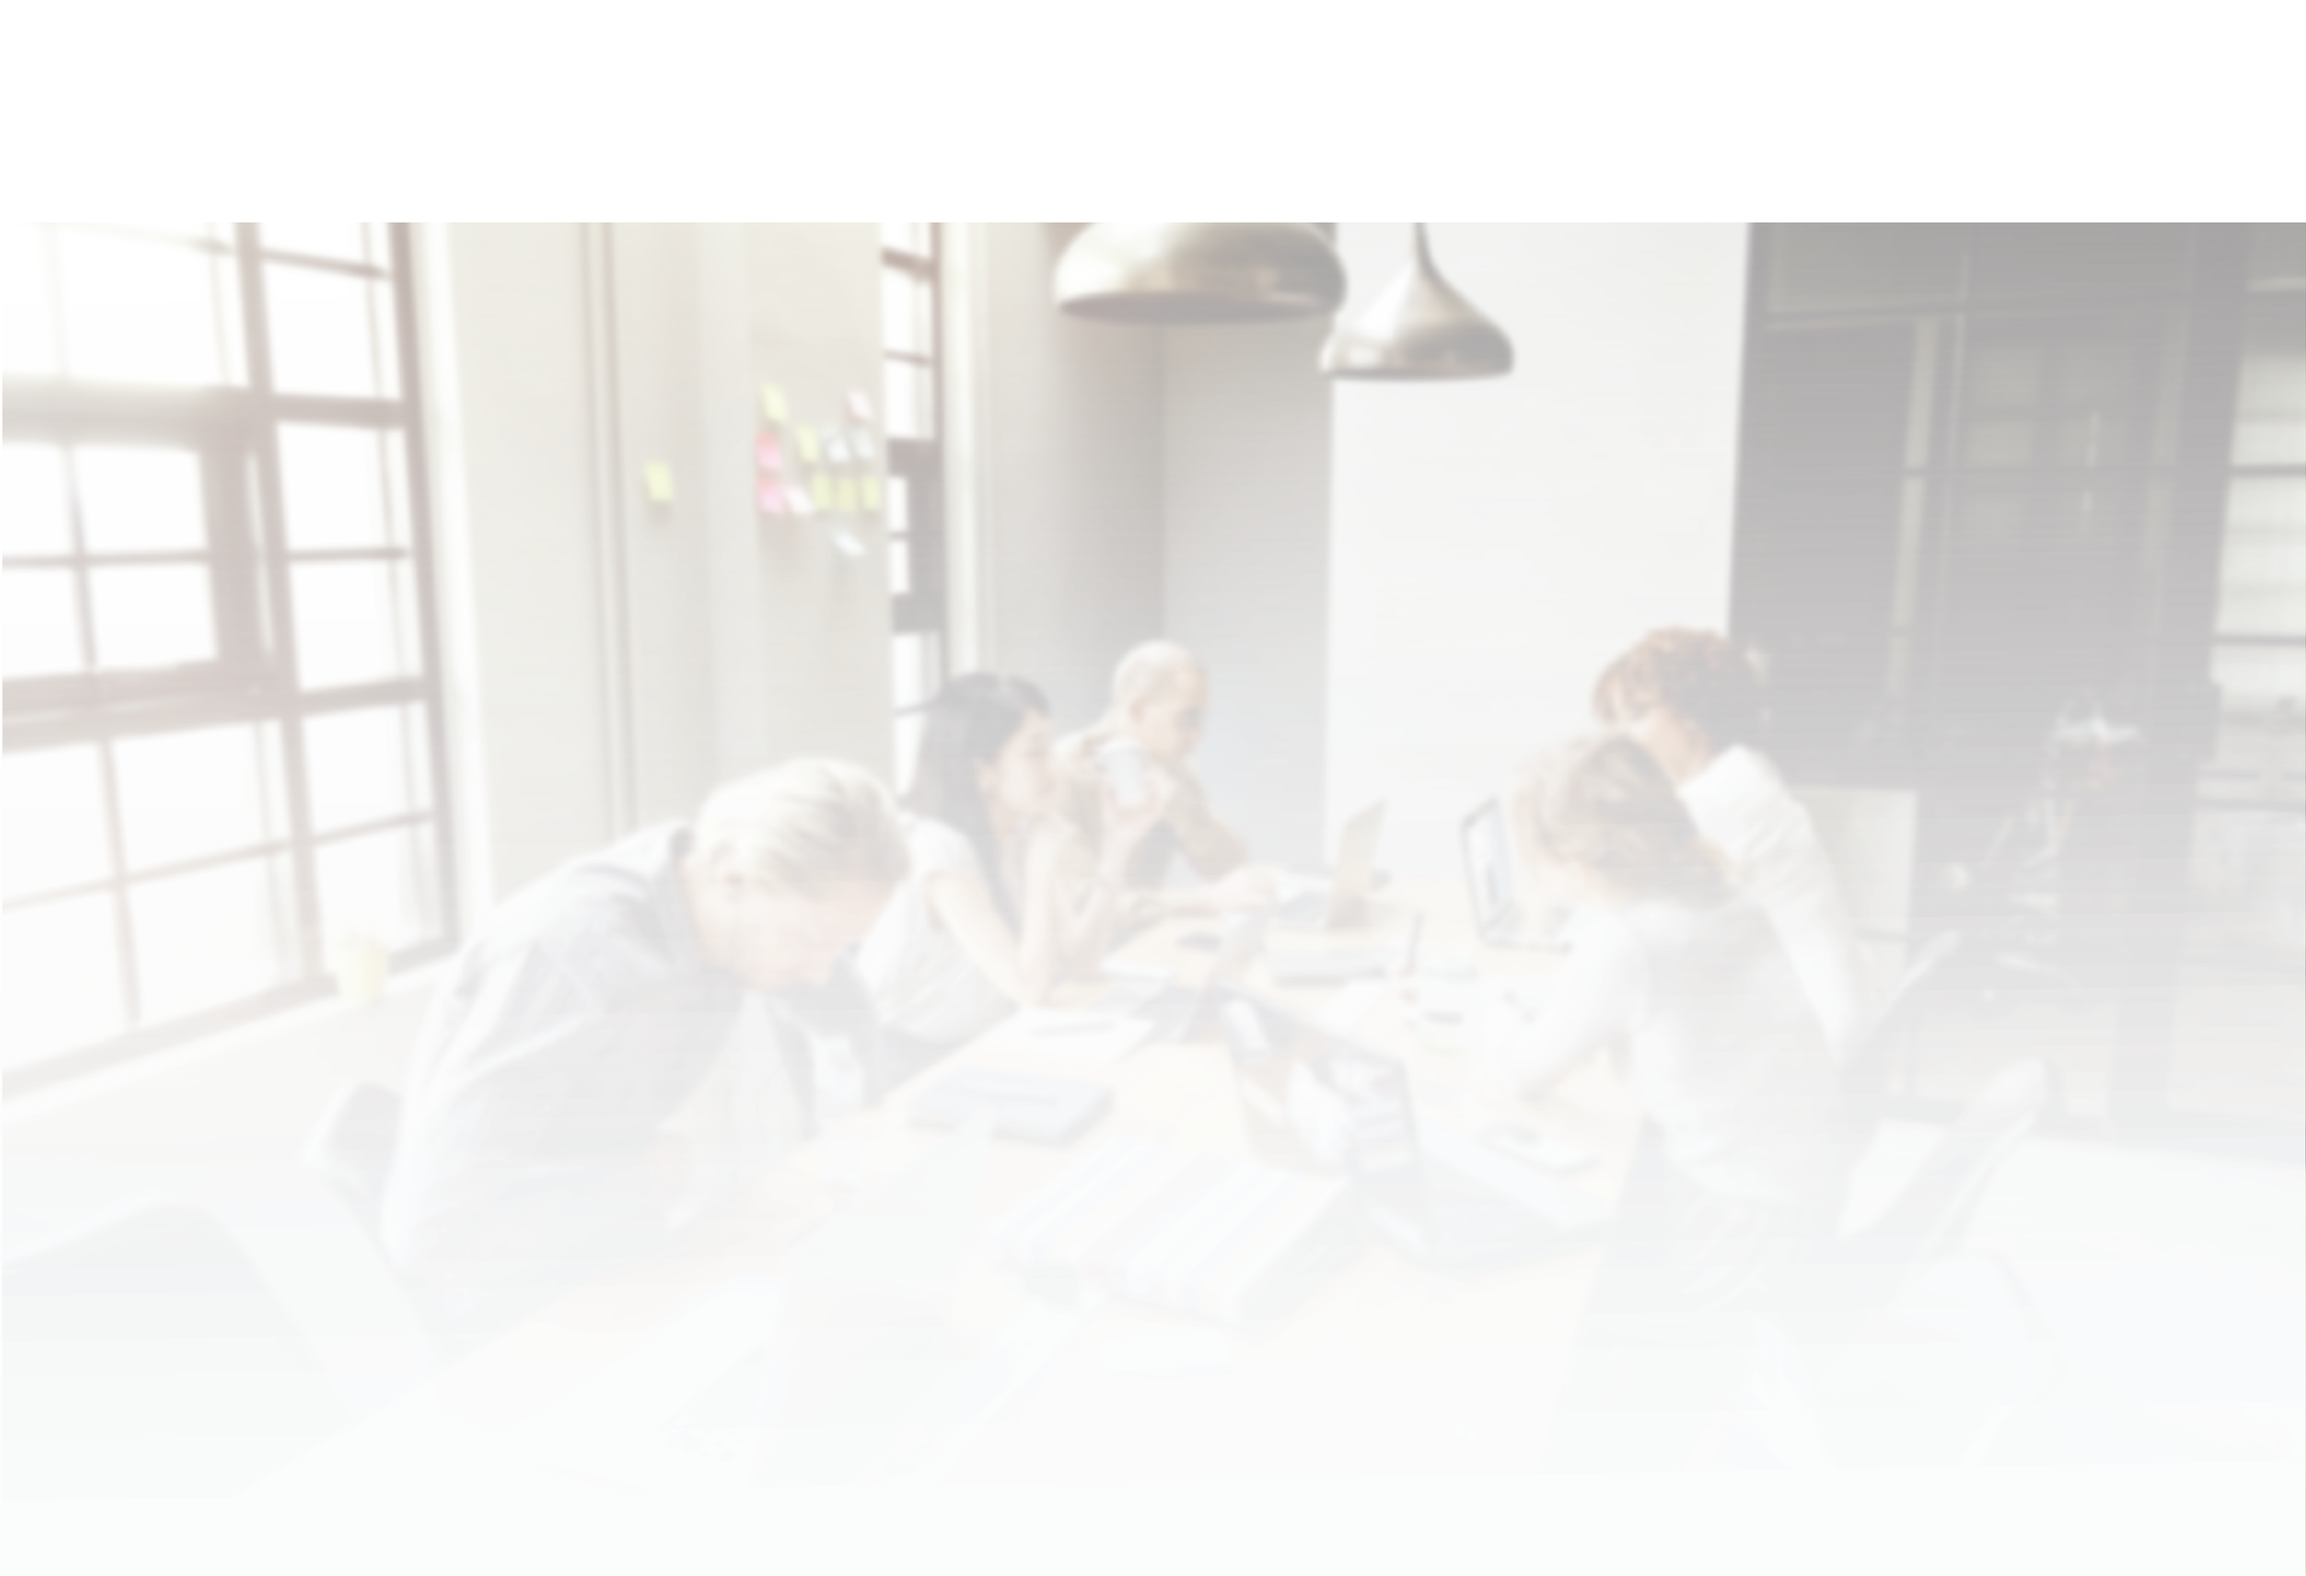
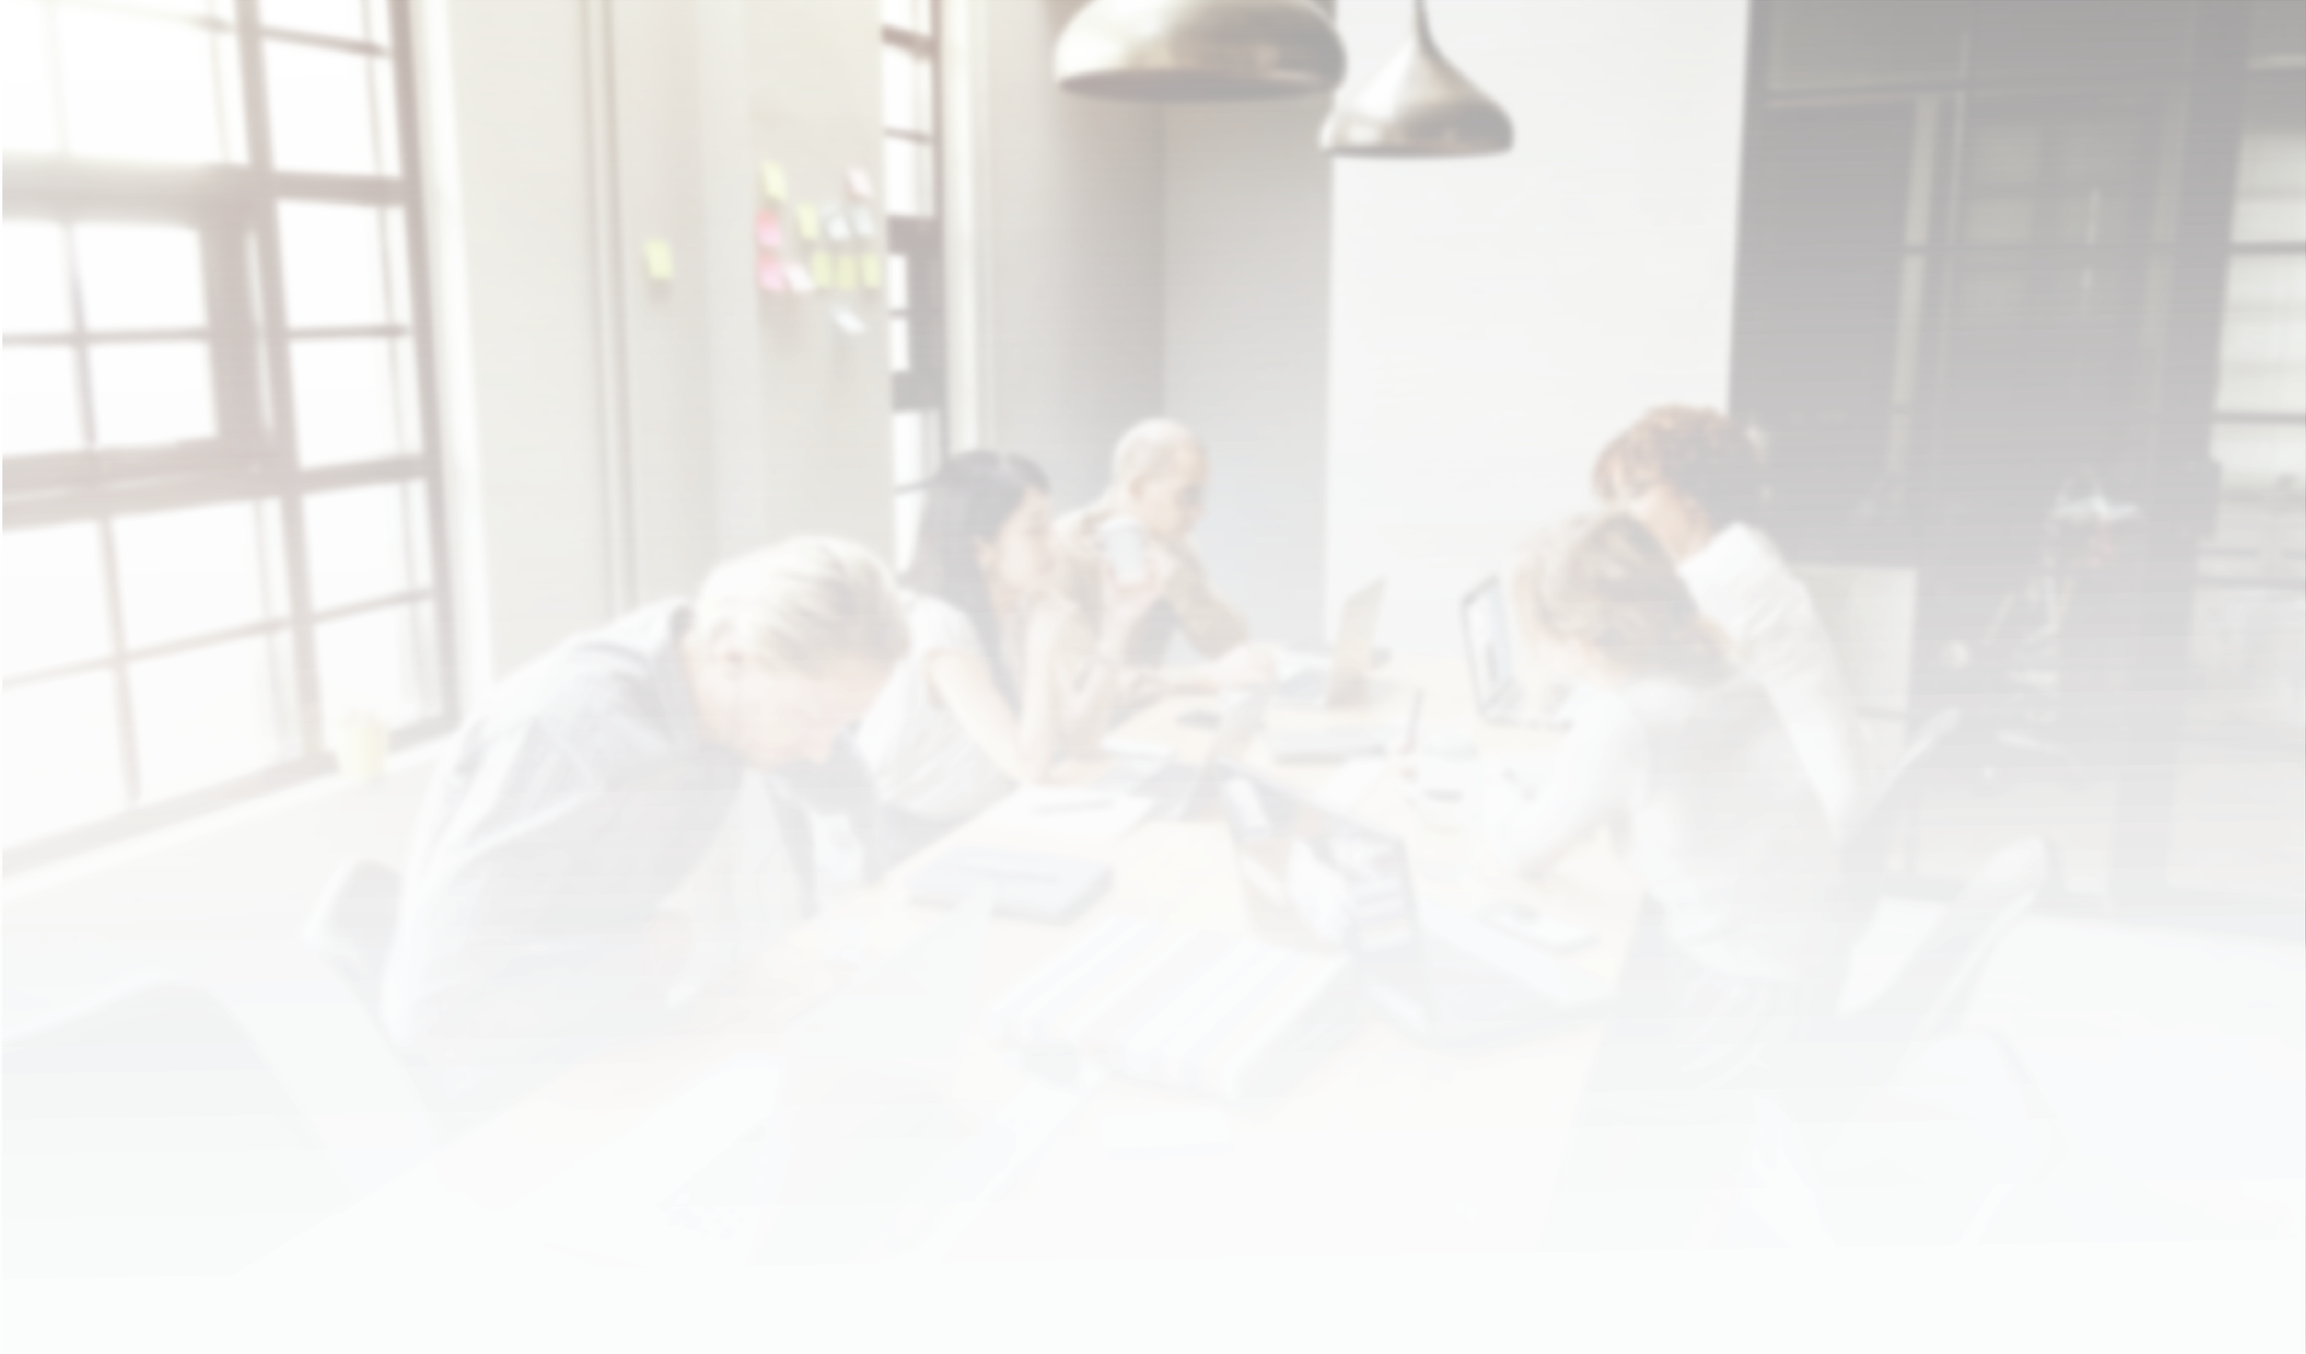
fix venture labs responsiveness

diff --git a/assets/sass/pages/_venturelabs.scss b/assets/sass/pages/_venturelabs.scss
@@ -8,11 +8,14 @@ $venturelabs-blue-color: #0090D1;
     background-size: cover;
     background-position-y: 50%;
     height: 80vh;
+    @include screen-md {
+      height: 60vh;
+    }
     .lgx-heading-area {
       img {
         width: 300px;
         @include screen-tablet-max {
-          width: 160px;
+          width: 220px;
         }
       }
       .heading-subtitle {
@@ -20,6 +23,16 @@ $venturelabs-blue-color: #0090D1;
         @include font-size(27);
         font-weight: 600;
         margin: 4rem 40vh;
+        @include screen-md {
+          margin: 2rem 10vh;
+        }
+        @include screen-sm {
+          margin: 2rem 10vh;
+        }
+        @include screen-xs {
+          margin: 1rem 4rem;
+          @include font-size(23);
+        }
       }
     }
   }
@@ -27,6 +40,15 @@ $venturelabs-blue-color: #0090D1;
   #get-hyped {
     position: relative;
     height: 90vh;
+    @include screen-md {
+      height: 50vh;
+    }
+    @include screen-sm {
+      height: 65vh;
+    }
+    @include screen-xs {
+      height: 75vh;
+    }
     #bg-container {
       background: url('/assets/img/venture-labs/green-wave-bg.png');
       background-size: cover;
@@ -34,6 +56,15 @@ $venturelabs-blue-color: #0090D1;
       position: absolute;
       top: -32vh;
       width: 100vw;
+      @include screen-md {
+        height: 80vh;
+      }
+      @include screen-sm {
+        height: 85vh;
+      }
+      @include screen-xs {
+        height: 100vh;
+      }
     }
     h3, p {
       color: white;
@@ -56,6 +87,12 @@ $venturelabs-blue-color: #0090D1;
     }
     blockquote {
       height: 250px; // Hardcode height so that quotes don't move other elements
+      @include screen-md {
+        height: 300px;
+      }
+      @include screen-xs {
+        @include font-size(12);
+      }
     }
   }
 
